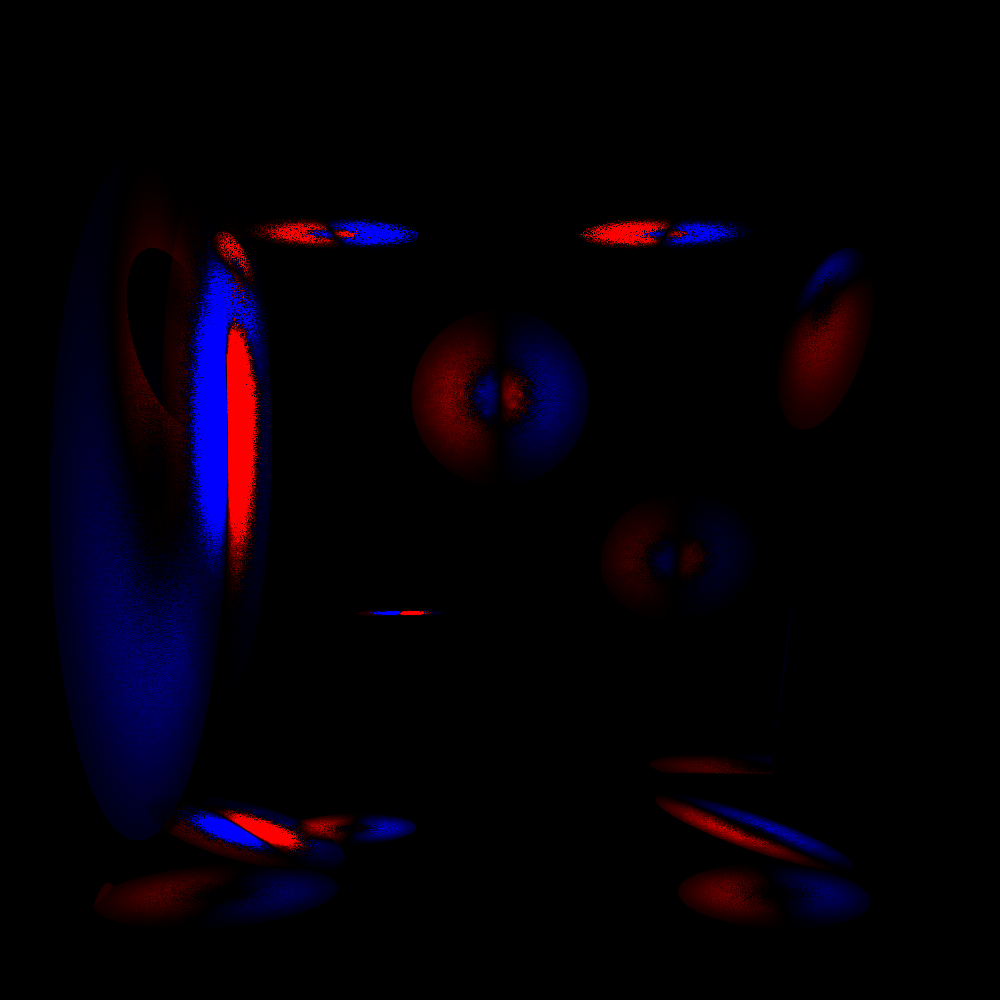
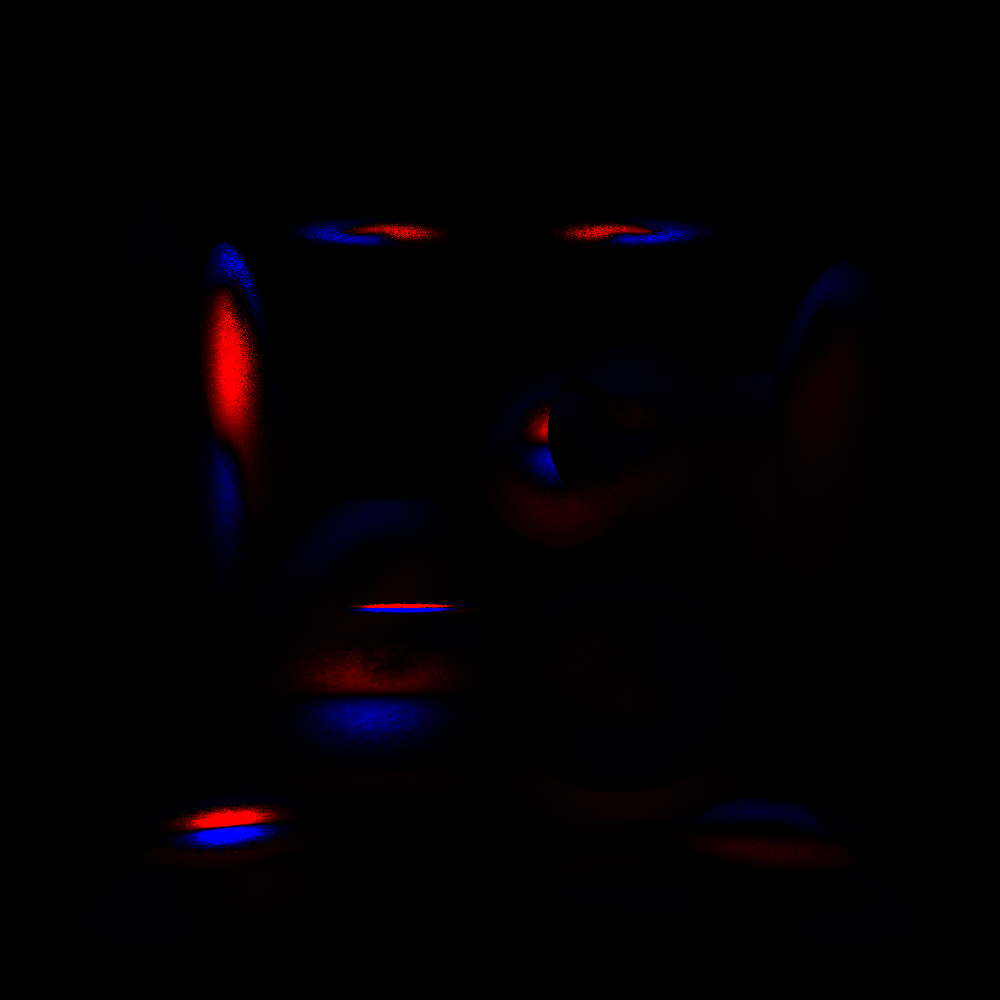
Added BTDF+BRDF to surfels

diff --git a/Pale/Renderer/Kernels/AdjointKernels.cpp b/Pale/Renderer/Kernels/AdjointKernels.cpp
@@ -10,12 +10,12 @@
 
 
 namespace Pale {
-    void launchRayGenAdjointKernel(RenderPackage& pkg, int spp) {
-        auto& queue = pkg.queue;
-        auto& sensor = pkg.sensor;
-        auto& settings = pkg.settings;
-        auto& adjoint = pkg.adjoint;
-        auto& intermediates = pkg.intermediates;
+    void launchRayGenAdjointKernel(RenderPackage &pkg, int spp) {
+        auto &queue = pkg.queue;
+        auto &sensor = pkg.sensor;
+        auto &settings = pkg.settings;
+        auto &adjoint = pkg.adjoint;
+        auto &intermediates = pkg.intermediates;
 
         const uint32_t imageWidth = sensor.camera.width;
         const uint32_t imageHeight = sensor.camera.height;
@@ -27,7 +27,7 @@ namespace Pale {
         const uint32_t perPassRayCount = raysPerSet;
         queue.memcpy(pkg.intermediates.countPrimary, &perPassRayCount, sizeof(uint32_t)).wait();
 
-        queue.submit([&](sycl::handler& commandGroupHandler) {
+        queue.submit([&](sycl::handler &commandGroupHandler) {
             const uint64_t baseSeed = settings.randomSeed * static_cast<uint64_t>(spp);
 
             commandGroupHandler.parallel_for<struct RayGenAdjointKernelTag>(
@@ -85,23 +85,23 @@ namespace Pale {
     }
 
 
-    void launchAdjointKernel(RenderPackage& pkg, uint32_t activeRayCount) {
-        auto& queue = pkg.queue;
-        auto& scene = pkg.scene;
-        auto& sensor = pkg.sensor;
-        auto& settings = pkg.settings;
-        auto& adjoint = pkg.adjoint;
-        auto& photonMap = pkg.intermediates.map;
+    void launchAdjointKernel(RenderPackage &pkg, uint32_t activeRayCount) {
+        auto &queue = pkg.queue;
+        auto &scene = pkg.scene;
+        auto &sensor = pkg.sensor;
+        auto &settings = pkg.settings;
+        auto &adjoint = pkg.adjoint;
+        auto &photonMap = pkg.intermediates.map;
 
-        auto* hitRecords = pkg.intermediates.hitRecords;
-        auto* raysIn = pkg.intermediates.primaryRays;
+        auto *hitRecords = pkg.intermediates.hitRecords;
+        auto *raysIn = pkg.intermediates.primaryRays;
         // activeRayCount == total rays in the current buffer (must be even)
 
         const uint32_t perPassRayCount = activeRayCount; // total number of rays (With n-samples per ray)
         const uint32_t perPixelRayCount = activeRayCount; // Number of rays per pixel
         const uint32_t photonsPerLaunch = settings.photonsPerLaunch;
 
-        queue.submit([&](sycl::handler& cgh) {
+        queue.submit([&](sycl::handler &cgh) {
             cgh.parallel_for<struct AdjointShadeKernelTag>(
                 sycl::range<1>(perPixelRayCount),
                 [=](sycl::id<1> globalId) {
@@ -132,75 +132,96 @@ namespace Pale {
                     // Surfel scatters B, ray index 4:
                     // 2. Add in-scattering to surfel events along side interior contribution. Use the attached points to propagate change to transmissivity.
                     // Mesh background with in-scattering:
-                    auto& instance = scene.instances[worldHit.instanceIndex];
+                    auto &instance = scene.instances[worldHit.instanceIndex];
 
-                    Ray& ray = rayState.ray;
+                    Ray &ray = rayState.ray;
+                    float3 gradientCostWrtSurfelCenter(0.0f);
                     float3 d_cost_d_pos(0.0f);
-                    if (worldHit.splatEventCount == 1 && instance.geometryType == GeometryType::Mesh) {
-                        auto splatEvent = worldHit.splatEvents[0];
-                        float3 x = ray.origin;
-                        float3 y = worldHit.hitPositionW;
+                    if (worldHit.splatEventCount > 0 && instance.geometryType == GeometryType::Mesh) {
+                        const float3 x = ray.origin;
+                        const float3 y = worldHit.hitPositionW;
+                        const float3 segmentVector = y - x;
 
-                        const auto surfel = scene.points[splatEvent.primitiveIndex];
-                        const float3 canonicalNormalW = normalize(cross(surfel.tanU, surfel.tanV));
-                        const int travelSideSign = (dot(canonicalNormalW, -rayState.ray.direction) >= 0.0f) ? 1 : -1;
-                        const float3 surfelNormal = (travelSideSign >= 0) ? canonicalNormalW : (-canonicalNormalW);
-
-                        float3 segmentVector = y - x;
-                        float denom = dot(surfelNormal, segmentVector);
-                        if (abs(denom) <= 1e-6) {
-                            return;
-                        }
-
-                        // Intersection on the segment:
-                        float tParam = dot(surfelNormal, (surfel.position - x)) / denom;
-                        if (tParam <= 0.0 || tParam >= 1.0f)
-                            return;
-
-                        float3 hitPoint = x + tParam * segmentVector;
-
-                        float2 uv = phiInverse(hitPoint, surfel);
-                        float alpha = splatEvent.alpha;
-                        float tau = 1 - alpha;
-
-                        float tu_d = dot(surfel.tanU, segmentVector);
-                        float tv_d = dot(surfel.tanV, segmentVector);
-
-                        float su = surfel.scale.x();
-                        float sv = surfel.scale.y();
-
-                        float3 du_dc = ((tu_d / denom) * surfelNormal - surfel.tanU) / su;
-                        float3 dv_dc = ((tv_d / denom) * surfelNormal - surfel.tanV) / sv;
-
-                        float3 d_alpha_dc = -alpha * (uv[0] * du_dc + uv[1] * dv_dc);
-                        float3 dtau_dc = -d_alpha_dc;
-
-                        // Geometric term:
                         const float r2Background = dot(segmentVector, segmentVector);
                         if (r2Background <= 0.0f) return;
 
-                        /*
-                        const float rBackground = sycl::sqrt(r2Background);
-                        const float3 unitDirXY = segmentVector / rBackground;
-                        const float cosineEmitBackground = dot(worldHit.geometricNormalW, -unitDirXY);
-                        const float cosineReceiveBackground = dot(ray.normal, unitDirXY);
-                        const float geometricBackground =
-                            (cosineEmitBackground * cosineReceiveBackground) / r2Background;
-                        if (geometricBackground <= 0.0f) return;
-                        */
-
                         const float3 backgroundRadianceRGB = estimateRadianceFromPhotonMap(worldHit, scene, photonMap);
-                        const float L_mesh = luminanceGrayscale(backgroundRadianceRGB);
+                        const float luminanceMesh = luminanceGrayscale(backgroundRadianceRGB);
 
-                        float3 S_a_L = estimateSurfelRadianceFromPhotonMap(
-                            worldHit.splatEvents[0], ray.direction, scene, photonMap);
-                        float L_surfel = luminance(S_a_L);
+                        // Collect alpha_i and d(alpha_i)/dc for all valid splat intersections on the segment
+                        struct LocalTerm {
+                            float alpha;
+                            float3 dAlphaDc;
+                        };
+                        constexpr float epsilon = 1e-6f;
+                        constexpr int maxSplatEvents = 64; // adjust if needed
+                        LocalTerm localTerms[maxSplatEvents];
+                        int validCount = 0;
 
-                        float brdf = 1.0f; // placeholder
-                        // p(x, theta) = p(y, -phi) * d_tau * fs * V * G
-                        float3 p_adjoint = rayState.pathThroughput;
-                        d_cost_d_pos = p_adjoint * dtau_dc * L_mesh;
+                        for (int ei = 0; ei < worldHit.splatEventCount && validCount < maxSplatEvents; ++ei) {
+                            const auto splatEvent = worldHit.splatEvents[ei];
+                            const auto surfel = scene.points[splatEvent.primitiveIndex];
+
+                            const float3 canonicalNormalW = normalize(cross(surfel.tanU, surfel.tanV));
+                            const int travelSideSign = (dot(canonicalNormalW, -ray.direction) >= 0.0f) ? 1 : -1;
+                            const float3 surfelNormal = (travelSideSign >= 0) ? canonicalNormalW : (-canonicalNormalW);
+
+                            const float denom = dot(surfelNormal, segmentVector);
+                            if (fabs(denom) <= epsilon) continue;
+
+                            const float tParam = dot(surfelNormal, (surfel.position - x)) / denom;
+                            if (tParam <= 0.0f || tParam >= 1.0f) continue;
+
+                            const float3 hitPoint = x + tParam * segmentVector;
+                            const float2 uv = phiInverse(hitPoint, surfel); // your mapping to local coords
+
+                            // alpha_i: use event alpha, or recompute from Gaussian if preferred
+                            float alpha = splatEvent.alpha;
+                            // Optional exact Gaussian: alpha = sycl::clamp(exp(-0.5f * (uv.x()*uv.x() + uv.y()*uv.y())), 0.0f, 1.0f);
+
+                            const float tuDotD = dot(surfel.tanU, segmentVector);
+                            const float tvDotD = dot(surfel.tanV, segmentVector);
+
+                            const float su = surfel.scale.x();
+                            const float sv = surfel.scale.y();
+
+                            // d u / d c and d v / d c
+                            const float3 duDc = ((tuDotD / denom) * surfelNormal - surfel.tanU) / sycl::fmax(
+                                                    su, epsilon);
+                            const float3 dvDc = ((tvDotD / denom) * surfelNormal - surfel.tanV) / sycl::fmax(
+                                                    sv, epsilon);
+
+                            // d alpha / d c  for alpha = exp(-0.5*(u^2+v^2))  ==>  dα = -α*(u du + v dv)
+                            const float3 dAlphaDc = -alpha * (uv.x() * duDc + uv.y() * dvDc);
+
+                            localTerms[validCount++] = LocalTerm{alpha, dAlphaDc};
+                        }
+
+                        if (validCount == 0) return;
+
+                        // τ = Π (1-α_i) with stable log-space accumulation
+                        float logTau = 0.0f;
+                        for (int i = 0; i < validCount; ++i) {
+                            const float oneMinusAlpha = sycl::fmax(1.0f - localTerms[i].alpha, epsilon);
+                            logTau += sycl::log(oneMinusAlpha);
+                        }
+                        const float tauTotal = sycl::exp(logTau);
+
+                        // Σ_i [ - dα_i/dc / (1-α_i) ]
+                        float3 sumTerm(0.0f);
+                        for (int i = 0; i < validCount; ++i) {
+                            const float oneMinusAlpha = sycl::fmax(1.0f - localTerms[i].alpha, epsilon);
+                            sumTerm = sumTerm + (-localTerms[i].dAlphaDc) / oneMinusAlpha;
+                        }
+
+                        const float3 pAdjoint = rayState.pathThroughput;
+                        // already includes fs, V, G, etc., for this segment
+                        gradientCostWrtSurfelCenter = pAdjoint * (tauTotal * luminanceMesh) * sumTerm;
+
+                        // Accumulate to your running gradient
+                        d_cost_d_pos = d_cost_d_pos + gradientCostWrtSurfelCenter;
                     }
+
 
                     if (worldHit.splatEventCount == 1 && instance.geometryType == GeometryType::PointCloud) {
                         auto splatEvent = worldHit.splatEvents[0];
@@ -225,7 +246,6 @@ namespace Pale {
 
                         float2 uv = phiInverse(hitPoint, surfel);
                         float alpha = splatEvent.alpha;
-                        float tau = 1 - alpha;
 
                         float tu_d = dot(surfel.tanU, ray.direction);
                         float tv_d = dot(surfel.tanV, ray.direction);
@@ -243,14 +263,14 @@ namespace Pale {
                         float L_surfel = luminanceGrayscale(S_a_L);
 
                         float3 p_adjoint = rayState.pathThroughput;
-                        d_cost_d_pos = p_adjoint *  d_alpha_dc * L_surfel;
+                        d_cost_d_pos = p_adjoint * d_alpha_dc * L_surfel;
                     }
 
                     if (rayState.bounceIndex >= 0) {
                         const float3 parameterAxis = {1.0f, 0.0f, 0.00f};
                         const float dVdp_scalar = dot(d_cost_d_pos, parameterAxis);
 
-                        float4& gradImageDst = sensor.framebuffer[rayState.pixelIndex];
+                        float4 &gradImageDst = sensor.framebuffer[rayState.pixelIndex];
                         atomicAddFloatToImage(&gradImageDst, dVdp_scalar);
                     }
                     /*
@@ -524,16 +544,16 @@ namespace Pale {
         queue.wait();
     }
 
-    void generateNextAdjointRays(RenderPackage& pkg, uint32_t activeRayCount) {
-        auto& queue = pkg.queue;
-        auto& sensor = pkg.sensor;
-        auto& settings = pkg.settings;
-        auto& scene = pkg.scene;
+    void generateNextAdjointRays(RenderPackage &pkg, uint32_t activeRayCount) {
+        auto &queue = pkg.queue;
+        auto &sensor = pkg.sensor;
+        auto &settings = pkg.settings;
+        auto &scene = pkg.scene;
 
-        auto* hitRecords = pkg.intermediates.hitRecords;
-        auto* raysIn = pkg.intermediates.primaryRays;
-        auto* raysOut = pkg.intermediates.extensionRaysA;
-        auto* countExtensionOut = pkg.intermediates.countExtensionOut;
+        auto *hitRecords = pkg.intermediates.hitRecords;
+        auto *raysIn = pkg.intermediates.primaryRays;
+        auto *raysOut = pkg.intermediates.extensionRaysA;
+        auto *countExtensionOut = pkg.intermediates.countExtensionOut;
 
         const uint32_t perPassRayCount = activeRayCount; // total number of rays (With n-samples per ray)
         const uint32_t perPixelRayCount = activeRayCount; // Number of rays per pixel
@@ -541,7 +561,7 @@ namespace Pale {
 
         queue.memcpy(countExtensionOut, &activeRayCount, sizeof(uint32_t)).wait();
 
-        queue.submit([&](sycl::handler& cgh) {
+        queue.submit([&](sycl::handler &cgh) {
             const uint64_t baseSeed = settings.randomSeed;
             cgh.parallel_for<class GenerateNextAdjointRays>(
                 sycl::range<1>(perPixelRayCount),
@@ -570,7 +590,10 @@ namespace Pale {
 
                     auto light = scene.lights[0];
                     auto lightTransform = scene.transforms[light.transformIndex];
-                    float3 lightPosition = float3{lightTransform.objectToWorld.row[0].w(), lightTransform.objectToWorld.row[1].w(), lightTransform.objectToWorld.row[2].w()};
+                    float3 lightPosition = float3{
+                        lightTransform.objectToWorld.row[0].w(), lightTransform.objectToWorld.row[1].w(),
+                        lightTransform.objectToWorld.row[2].w()
+                    };
                     const float3 toLight = lightPosition - worldHit.hitPositionW;
                     const float distanceToLight = length(toLight);
                     if (distanceToLight <= 1e-6f) return;
@@ -679,8 +702,6 @@ namespace Pale {
                             cosTheta / sycl::fmax(pdf, 1e-8f));
                     }
                     */
-
-
                 });
         });
         queue.wait();

diff --git a/Pale/main.cpp b/Pale/main.cpp
@@ -300,7 +300,7 @@ int main(int argc, char **argv) {
 
     //transform.setRotationEuler(glm::vec3(-90.0f, 0.0f, 0.0f));
     //transform.setScale(glm::vec3(0.5f, 0.5f, 0.5f));
-    //transform.setPosition(glm::vec3(0.0f, 0.1f, 0.0f));
+    transform.setPosition(glm::vec3(0.0f, 0.0f, 0.0f));
     logSceneSummary(scene, assetManager);
 
     //FInd Sycl Device
@@ -361,10 +361,10 @@ int main(int argc, char **argv) {
         Pale::Utils::savePFM(filePath.replace_extension(".pfm"), rgba, W, H); // writes RGB, drops A
     }
 
-    if (pointCloudPath.filename() != "initial.ply") {
-        Pale::Log::PA_INFO("TARGET RENDERED exiting...");
-        return 0;
-    }
+    //if (pointCloudPath.filename() != "initial.ply") {
+    //    Pale::Log::PA_INFO("TARGET RENDERED exiting...");
+    //    return 0;
+    //}
 
     // 4) (Optional) load or compute residuals on host, upload pointer
     auto adjoint = calculateAdjointImage("Output/target/out.pfm", deviceSelector.getQueue(), sensor, true);
